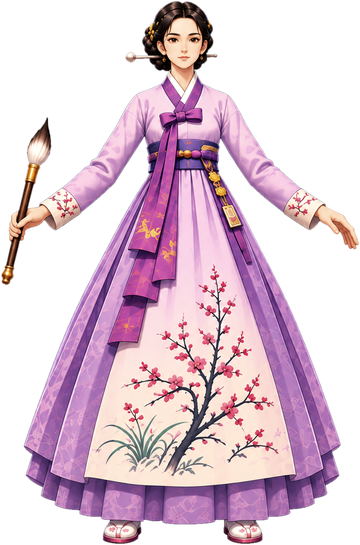
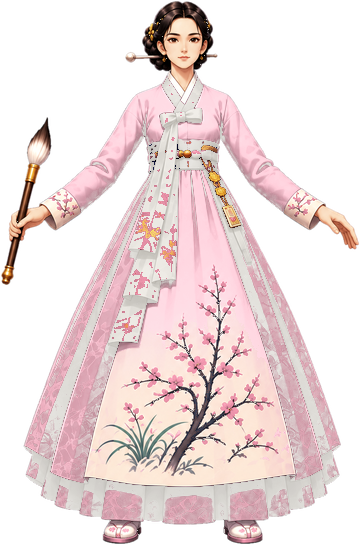
art: 사임당 recolour — outer skirt ivory, jeogori and accents soft pink (user: purple too childish)
tools/art/recolor_saimdang.py post-processes the baked sprites and the hero card: deep purple (outer skirt)
→ warm ivory, light lavender/pink → muted pink, shading kept. Re-run after any re-bake or card rebuild.

diff --git a/tools/art/recolor_saimdang.py b/tools/art/recolor_saimdang.py
@@ -1,0 +1,50 @@
+"""사임당 색 고치기 (사용자 의견 2026-11-21: "보라가 너무 유치하다, 뒤(치마)는 흰색, 나머지는 분홍에 가깝게").
+
+  python tools/art/recolor_saimdang.py
+구운 스프라이트(assets/sprites/shin_saimdang/*.png)와 영웅 카드(assets/ui/heroes/shin_saimdang.png)를 고친다.
+진한 보라(치마 겉) → 미색, 옅은 보라·분홍(저고리 등) → 은은한 분홍. 명암은 남긴다.
+다시 굽거나(meshy_pipeline) 카드를 다시 만들면(make_hero_cards.py) 그 뒤에 이것을 다시 돌린다.
+"""
+import glob
+import os
+
+import numpy as np
+from PIL import Image
+
+ROOT = os.path.abspath(os.path.join(os.path.dirname(__file__), "..", ".."))
+
+def soften(img, deep_s=0.30, white=(0.70, 0.30), pink_hue=345.0, pink_s=0.55):
+    """보라·분홍 계열(240~355도): 진한 보라(채도 > deep_s, 치마 겉) → 미색, 옅은 보라·분홍 → 은은한 분홍. 명암은 남긴다."""
+    rgba = img.convert("RGBA")
+    a = np.asarray(rgba).astype(np.float32) / 255.0
+    hsv = np.asarray(rgba.convert("RGB").convert("HSV")).astype(np.float32)
+    h = hsv[..., 0] * 360 / 255; s = hsv[..., 1] / 255; v = hsv[..., 2] / 255
+    band = (h >= 240) & (h <= 355) & (s > 0.04)
+    purple = (h < 320)
+    deep = np.clip((s - deep_s) / 0.12, 0, 1) * purple  # 0 옅음 ~ 1 진함
+    # 미색 목표
+    wh_h, wh_s, wh_v = 40.0, s * 0.07, white[0] + white[1] * v
+    # 분홍 목표
+    pk_h, pk_s, pk_v = pink_hue, np.minimum(s, 0.45) * pink_s / 0.45 * 0.6 + 0.05, np.clip(v * 1.02 + 0.04, 0, 1)
+    def to_rgb(hh, ss, vv):
+        hh = np.broadcast_to(hh, h.shape)
+        im = Image.merge("HSV", [Image.fromarray(np.uint8(np.clip(x, 0, 1) * 255)) for x in (hh / 360, ss, vv)]).convert("RGB")
+        return np.asarray(im).astype(np.float32) / 255
+    w_rgb = to_rgb(wh_h, wh_s, wh_v)
+    p_rgb = to_rgb(pk_h, pk_s, pk_v)
+    tgt = p_rgb * (1 - deep[..., None]) + w_rgb * deep[..., None]
+    w = np.clip((s - 0.04) / 0.08, 0, 1) * band
+    res = a[..., :3] * (1 - w[..., None]) + tgt * w[..., None]
+    return Image.fromarray(np.uint8(np.clip(np.dstack([res, a[..., 3:]]), 0, 1) * 255), "RGBA")
+
+
+def main() -> None:
+    files = glob.glob(os.path.join(ROOT, "assets/sprites/shin_saimdang/*.png"))
+    files.append(os.path.join(ROOT, "assets/ui/heroes/shin_saimdang.png"))
+    for f in files:
+        soften(Image.open(f)).save(f, optimize=True)
+        print(os.path.relpath(f, ROOT))
+
+
+if __name__ == "__main__":
+    main()
